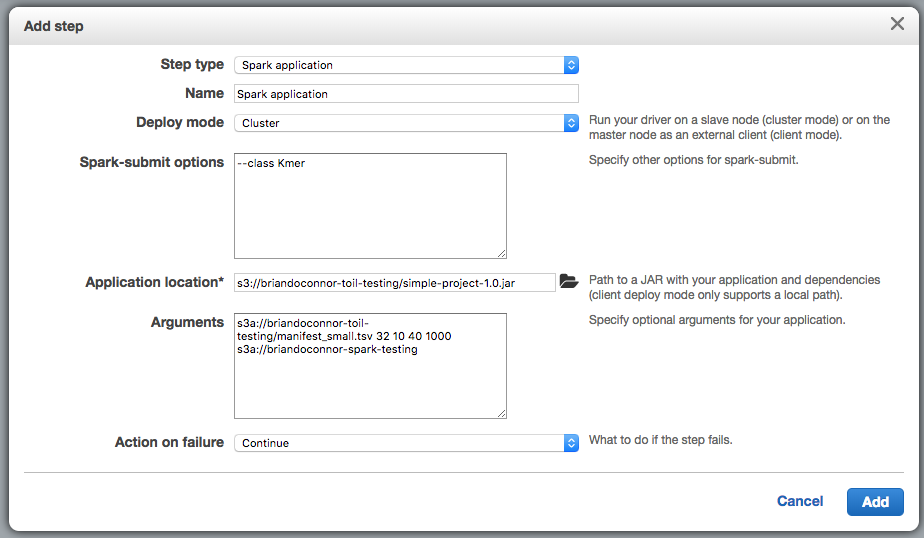
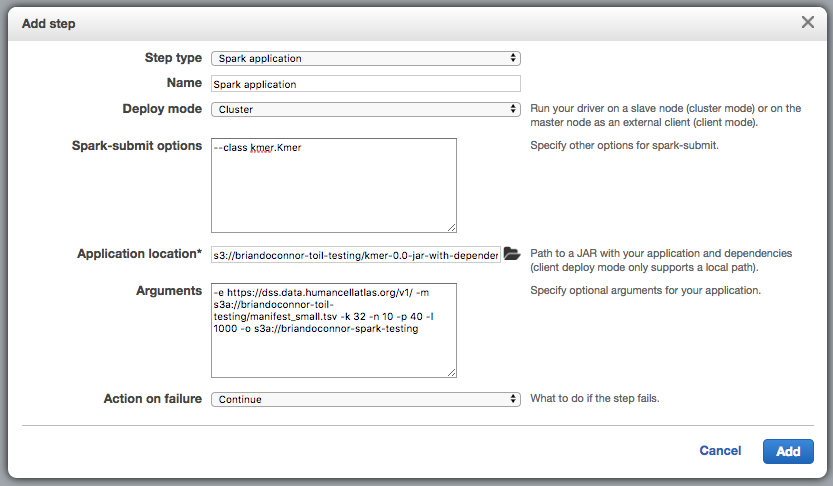
Update README.md and readme images

diff --git a/tasks/SPARK/README.md b/tasks/SPARK/README.md
@@ -100,10 +100,7 @@ you'll need it later.
 
 ```
 # compile the code
-mvn clean install && aws s3 cp target/simple-project-1.0.jar s3://briandoconnor-toil-testing/
-
-# same but I commit, push, and then compile the code
-git commit -a -m updates; git push && mvn clean install && aws s3 cp target/simple-project-1.0.jar s3://briandoconnor-toil-testing/
+mvn package && aws s3 cp target/kmer-0.0-jar-with-dependencies.jar s3://briandoconnor-toil-testing/kmer-0.0-jar-with-dependencies.jar
 ```
 
 ## Running
@@ -115,23 +112,24 @@ You are going to need some parameters to launch this program:
 
 ```
 # args
---class Kmer
+--class kmer.Kmer
 
 # jar
-s3://briandoconnor-toil-testing/simple-project-1.0.jar
+s3://briandoconnor-toil-testing/kmer-0.0-jar-with-dependencies.jar
 
 # revised args, this will only process the first 1000 lines
-s3a://briandoconnor-toil-testing/manifest_small.tsv 32 10 40 1000 s3a://briandoconnor-spark-testing
+-e https://dss.data.humancellatlas.org/v1/ -m s3a://briandoconnor-toil-testing/manifest_small.tsv -k 32 -n 10 -p 40 -l 1000 -o s3a://briandoconnor-spark-testing
 ```
 
 Here the arguments are:
 
-1. the manifest of the UUIDs for input data bundles
-1. the size of the k-mer, in this case 32 bases
-1. the top N abundant k-mers to report back, in this case the top 10 abundant k-mer per fastq file
-1. the number of partitions, typically 3 or 4 times the number of CPU cores in your cluster (here my cluster is using `r4.xlarge` nodes, so 4 worker nodes x 4 cores x 3 or 4 = 48 to 64... I used 40)
-1. the number of sequences to process, here I'm just generating k-mers for the first 1000 reads per fastq file.  In Titus' blog post (see below) he used 1 million reads
-1. finally, the output S3 location for the output
+1. `-e`: the endpoint of the dss api
+1. `-m`: the manifest of the UUIDs for input data bundles
+1. `-k`: the size of the k-mer, in this case 32 bases
+1. `-n`: the top N abundant k-mers to report back, in this case the top 10 abundant k-mer per fastq file
+1. `-p`: the number of partitions, typically 3 or 4 times the number of CPU cores in your cluster (here my cluster is using `r4.xlarge` nodes, so 4 worker nodes x 4 cores x 3 or 4 = 48 to 64... I used 40)
+1. `-l`: the number of sequences to process, here I'm just generating k-mers for the first 1000 reads per fastq file.  In Titus' blog post (see below) he used 1 million reads
+1. `-o` finally, the output S3 location for the output
 
 **NOTE:** you need to customize the jar path to wherever you copied it to
 in the previous step.  You also need to customize `s3a://briandoconnor-toil-testing/manifest_small.tsv` to wherever you
